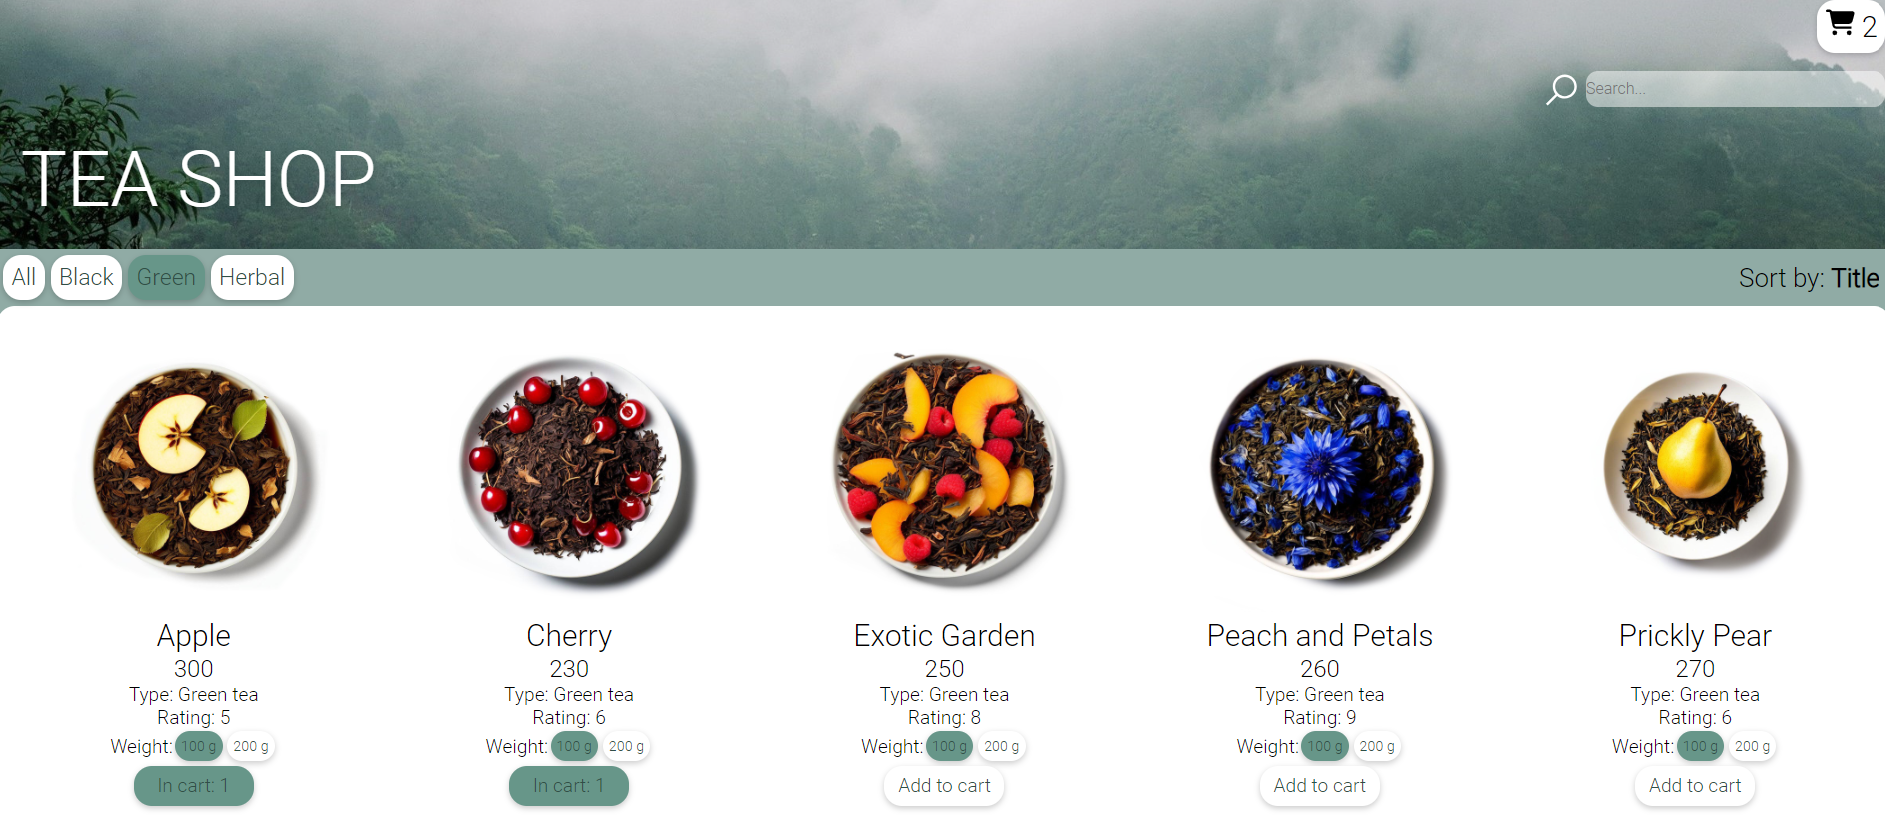
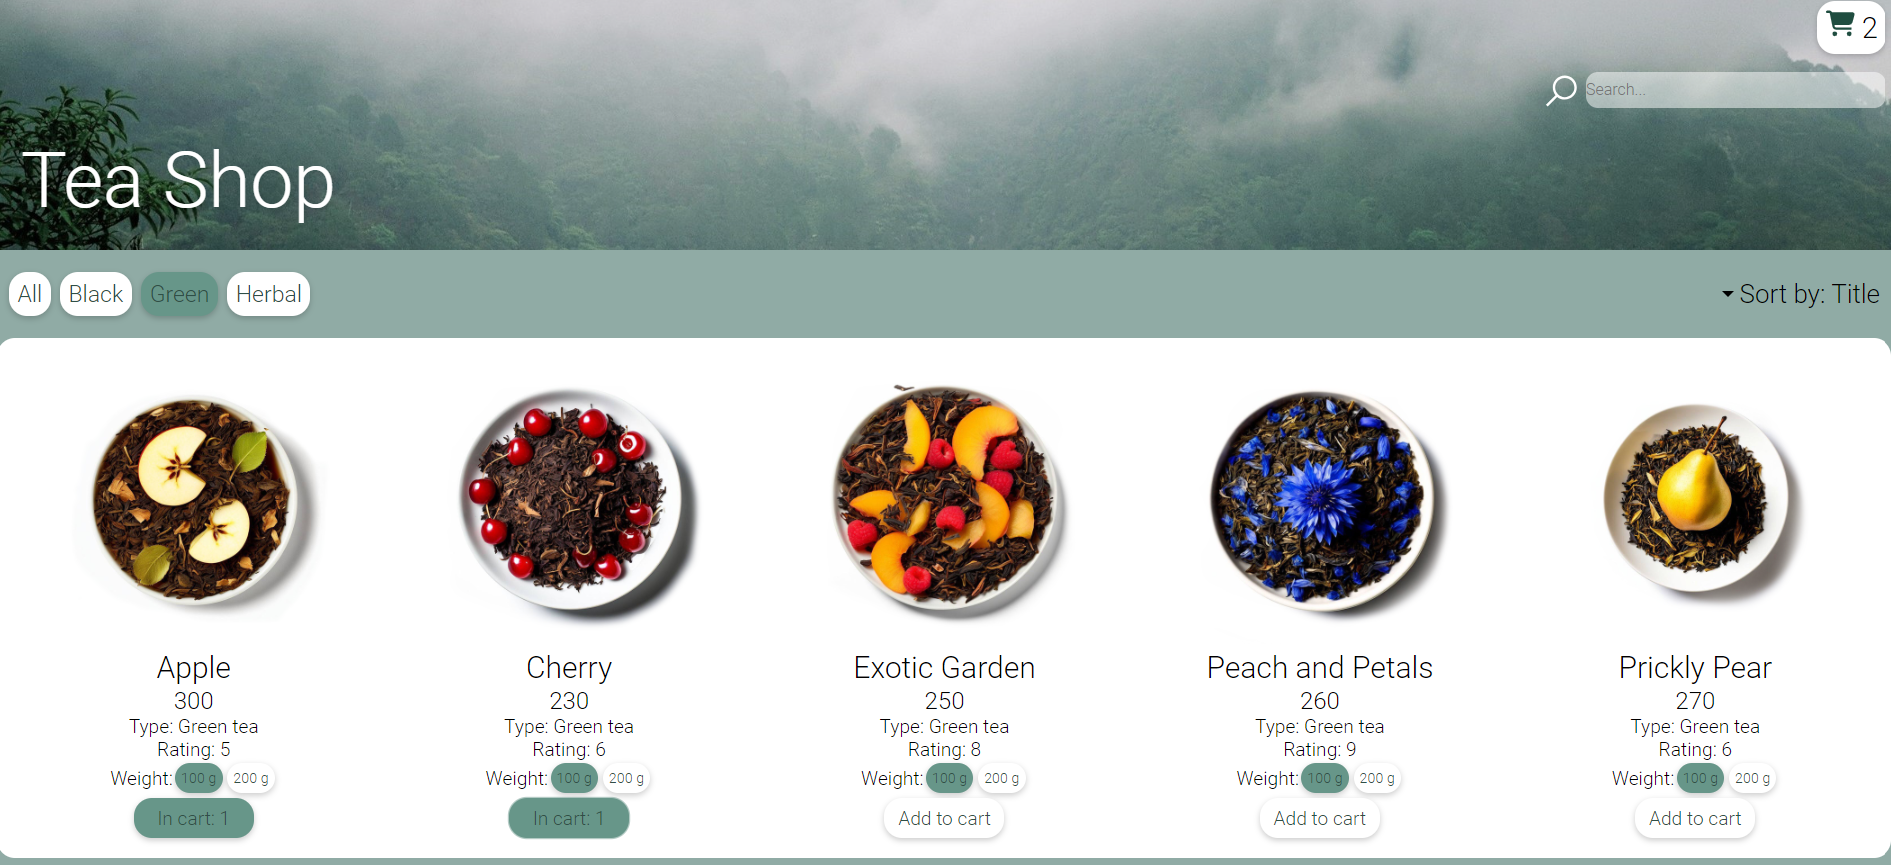
refactoring

diff --git a/src/components/TeaCard/TeaCard.tsx b/src/components/TeaCard/TeaCard.tsx
@@ -24,39 +24,34 @@ export const TeaCard: React.FC<SingleTea> = ({
   const addedValue = addedCartItem ? `In cart: ${addedCartItem.count}` : `Add to cart`;
 
   return (
-    <>
-      <div className={styles.card}>
-        <Link key={id} to={`/tea/${id}`}>
-          <img className={styles.image} src={imageUrl} title="Show description" />
-        </Link>
-        <h3 className={styles.title}>{title}</h3>
-        <div className={styles.inform}>
-          <h4 className={styles.price}>{price}</h4>
-          <h4>Type: {type} tea</h4>
-          <h4>Rating: {rating}</h4>
-          <div className={styles.weight}>
-            <h4>Weight:</h4>
-            <ul>
-              {weight.map((grams, index) => (
-                <li key={grams}>
-                  <button
-                    onClick={() => setActiveWeight(index)}
-                    className={activeWeight === index ? styles.activebutton : styles.weightbutton}
-                  >
-                    {grams} g
-                  </button>
-                </li>
-              ))}
-            </ul>
-          </div>
-          <button
-            onClick={onClickAddItem}
-            className={addedCartItem ? styles.added : styles.notadded}
-          >
-            {addedValue}
-          </button>
+    <div className={styles.card}>
+      <Link key={id} to={`/tea/${id}`}>
+        <img className={styles.image} src={imageUrl} title="Show description" />
+      </Link>
+      <h3 className={styles.title}>{title}</h3>
+      <div className={styles.inform}>
+        <h4 className={styles.price}>{price}</h4>
+        <h4>Type: {type} tea</h4>
+        <h4>Rating: {rating}</h4>
+        <div className={styles.weight}>
+          <h4>Weight:</h4>
+          <ul>
+            {weight.map((grams, index) => (
+              <li key={grams}>
+                <button
+                  onClick={() => setActiveWeight(index)}
+                  className={activeWeight === index ? styles.activebutton : styles.weightbutton}
+                >
+                  {grams} g
+                </button>
+              </li>
+            ))}
+          </ul>
         </div>
+        <button onClick={onClickAddItem} className={addedCartItem ? styles.added : styles.notadded}>
+          {addedValue}
+        </button>
       </div>
-    </>
+    </div>
   );
 };

diff --git a/src/components/Cart/ItemInCart.tsx b/src/components/Cart/ItemInCart.tsx
@@ -30,35 +30,33 @@ const ItemInCart: React.FC<CartItem> = ({
 
   return (
     <>
-      <div>
-        <div className={styles.display}>
-          <div className={styles.main}>
-            <img className={styles.img} src={imageUrl} />
-            <h3 className={styles.title}>{title}</h3>
-          </div>
-          <div className={styles.inform}>
-            <h4 className={styles.price}>{price}</h4>
-            <h4>Type: {type} tea</h4>
-            <h4>Rating: {rating}</h4>
-            <h4>Weight: {weight} g</h4>
-          </div>
-          <h4 className={styles.amount}>
-            Number: {count}{' '}
-            <button onClick={onClickPlusAmount} className={styles.amountbutton}>
-              +
-            </button>
-            <button
-              disabled={count === 1}
-              onClick={onClickMinusAmount}
-              className={styles.amountbutton}
-            >
-              -
-            </button>
-          </h4>
-          <button className={styles.remove} onClick={onClickRemoveItem}>
-            <RiDeleteBinLine />
-          </button>
+      <div className={styles.display}>
+        <div className={styles.main}>
+          <img className={styles.img} src={imageUrl} />
+          <h3 className={styles.title}>{title}</h3>
         </div>
+        <div className={styles.inform}>
+          <h4 className={styles.price}>{price}</h4>
+          <h4>Type: {type} tea</h4>
+          <h4>Rating: {rating}</h4>
+          <h4>Weight: {weight} g</h4>
+        </div>
+        <h4 className={styles.amount}>
+          Number: {count}
+          <button onClick={onClickPlusAmount} className={styles.amountbutton}>
+            +
+          </button>
+          <button
+            disabled={count === 1}
+            onClick={onClickMinusAmount}
+            className={styles.amountbutton}
+          >
+            -
+          </button>
+        </h4>
+        <button className={styles.remove} onClick={onClickRemoveItem}>
+          <RiDeleteBinLine />
+        </button>
       </div>
     </>
   );

diff --git a/src/components/Header/Header.tsx b/src/components/Header/Header.tsx
@@ -21,22 +21,20 @@ export const Header = (): JSX.Element => {
   }, [items]);
 
   return (
-    <>
-      <div className={styles.header}>
-        <Link to="/" className={styles.link}>
-          <div className={styles.title}>
-            <h1>TEA SHOP</h1>
-          </div>
-        </Link>
-        {location.pathname !== '/cart' && <Search />}
-        {location.pathname !== '/cart' && (
-          <button className={styles.cartbutton}>
-            <Link to="cart" className={styles.cartlink}>
-              <FaCartShopping className={styles.carticon} /> {totalCount}
-            </Link>
-          </button>
-        )}
-      </div>
-    </>
+    <header className={styles.header}>
+      <Link to="/" className={styles.link}>
+        <div className={styles.title}>
+          <h1>Tea Shop</h1>
+        </div>
+      </Link>
+      {location.pathname !== '/cart' && <Search />}
+      {location.pathname !== '/cart' && (
+        <button className={styles.cartbutton}>
+          <Link to="cart" className={styles.cartlink}>
+            <FaCartShopping className={styles.carticon} /> {totalCount}
+          </Link>
+        </button>
+      )}
+    </header>
   );
 };

diff --git a/src/components/Sort/Sort.tsx b/src/components/Sort/Sort.tsx
@@ -5,6 +5,7 @@ import { SortEnum, SortName } from '../../redux/filterSlice/types';
 import styles from './Sort.module.scss';
 import { useSelector } from 'react-redux';
 import { sortSelector } from '../../redux/filterSlice/selectors';
+import { IoMdArrowDropdown } from 'react-icons/io';
 
 const sort: SortName[] = [
   {
@@ -36,6 +37,7 @@ export const Sort = (): JSX.Element => {
   return (
     <div className={styles.sort}>
       <div className={styles.label}>
+        <IoMdArrowDropdown size={20} />
         <h2>
           Sort by: <span onClick={() => setActiveSort(!activeSort)}>{sortName.name}</span>
         </h2>
@@ -43,9 +45,9 @@ export const Sort = (): JSX.Element => {
       {activeSort && (
         <div className={styles.popup}>
           <ul>
-            {sort.map((obj, i) => (
+            {sort.map((obj, index) => (
               <li
-                key={i}
+                key={index}
                 onClick={() => onClickSort(obj)}
                 className={sortName.sortParam === obj.sortParam ? styles.active : ''}
               >

diff --git a/src/components/Sort/Sort.module.scss b/src/components/Sort/Sort.module.scss
@@ -1,20 +1,15 @@
 @import '../../styles/variables';
-@import '../../styles/activebutton.scss';
+@import '../../styles/components/activebutton.scss';
 
 .sort {
     position: relative;
-    font-size: 1rem;
     .label {
         display: flex;
+        justify-content: center;
+        align-items: center;
         font-size: 0.9rem;
         margin: 0 10px 0 0;
-        @media screen and (max-width: 414px) {
-            font-size: 0.9rem;
-        }
         @media screen and (max-width: 390px) {
-            font-size: 0.8rem;
-        }
-        @media screen and (max-width: 376px) {
             font-size: 0.8rem;
         }
         @media screen and (max-width: 360px){
@@ -33,6 +28,7 @@
     .popup {
         position: absolute;
         right: 0;
+        top: 35px;
         padding: 10px 0;
         ul {
             display: flex;

diff --git a/src/components/Categories/Categories.module.scss b/src/components/Categories/Categories.module.scss
@@ -1,27 +1,17 @@
 @import '../../styles/variables.scss';
-@import '../../styles/activebutton.scss';
+@import '../../styles/components/activebutton.scss';
 
 .categories {
-    margin: 0 0 0 5px;
+    margin: 10px;
     .active {
         @include activebutton;
     }
     button {
-        font-size: 1.2rem;
-        margin: 5px 5px 5px 0;
-        @media screen and (max-width: 430px) {
-            font-size: 1rem;
-        }
-        @media screen and (max-width: 414px) {
-            font-size: 1rem;
-        }
+        margin: 8px 8px 8px 0;
         @media screen and (max-width: 390px) {
             font-size: 0.9rem;
         }
         @media screen and (max-width: 376px) {
-            font-size: 0.8rem;
-        }
-        @media screen and (max-width: 360px){
             font-size: 0.8rem;
         }
         &:hover {

diff --git a/src/components/Footer/Footer.module.scss b/src/components/Footer/Footer.module.scss
@@ -1,18 +1,19 @@
 @import '../../styles/variables';
 
 .footer {
-    font-size: 25px;
-    background-color: rgba(255, 255, 255, 0.354);
+    background-color: $transparentBackround;
     text-align: center;
     margin-top: 20px;
     color: white;
     padding: 5px;
+    h1 {
+        font-size: 20px;
+    }
     p {
         font-size: 15px;
         margin: 5px;
     }
     .bottom {
-        font-size: 1rem;
         margin-top: 20px;
     }
 }

diff --git a/src/components/ItemsNotFound/ItemsNotFound.tsx b/src/components/ItemsNotFound/ItemsNotFound.tsx
@@ -3,11 +3,9 @@ import { PiWarningCircleLight } from 'react-icons/pi';
 
 const ItemsNotFound = () => {
   return (
-    <div>
-      <div className={styles.error}>
-        <PiWarningCircleLight className={styles.erroricon} />
-        <p>No items found.</p>
-      </div>
+    <div className={styles.error}>
+      <PiWarningCircleLight className={styles.erroricon} />
+      <p>No items found.</p>
     </div>
   );
 };

diff --git a/src/components/Cart/EmptyCart.tsx b/src/components/Cart/EmptyCart.tsx
@@ -9,7 +9,7 @@ const EmptyCart = () => {
         <h2 className={styles.title}>Cart</h2>
       </div>
       <div className={styles.empty}>
-        <IoCartOutline className={styles.icon} />
+        <IoCartOutline className={styles.icon} size={60} />
         <h2>Cart is empty</h2>
         <p>Return to the main page to order items:</p>
         <Link to="/" onClick={() => window.scrollTo(0, 0)}>

diff --git a/src/components/Cart/EmptyCart.module.scss b/src/components/Cart/EmptyCart.module.scss
@@ -10,12 +10,13 @@
     display: flex;
     flex-direction: column;
     align-items: center;
+    text-align: center;
     gap: 30px;
     padding: 30px;
     margin: 0 auto;
-    font-size: $size;
-    background-color: $background;
-    border-radius: $radius;
+    font-size: 1.5rem;
+    background-color: white;
+    border-radius: 15px;
     .icon {
       color: rgb(31, 77, 64);
     }

diff --git a/src/components/Footer/Footer.tsx b/src/components/Footer/Footer.tsx
@@ -3,12 +3,12 @@ import styles from './Footer.module.scss';
 
 const Footer = () => {
   return (
-    <div className={styles.footer}>
+    <footer className={styles.footer}>
       <IoIosLeaf />
-      Tea Shop
+      <h1>Tea Shop</h1>
       <p>online store of loose leaf tea</p>
       <div className={styles.bottom}>2024</div>
-    </div>
+    </footer>
   );
 };
 

diff --git a/src/pages/TeaPage/SingleTea.module.scss b/src/pages/TeaPage/SingleTea.module.scss
@@ -1,6 +1,6 @@
 @import '../../styles/variables';
-@import '../../styles/cartbutton.scss';
-@import '../../styles/activebutton.scss';
+@import '../../styles/components/cartbutton.scss';
+@import '../../styles/components/activebutton.scss';
 
 .wrapper {
     margin-top: 20px;
